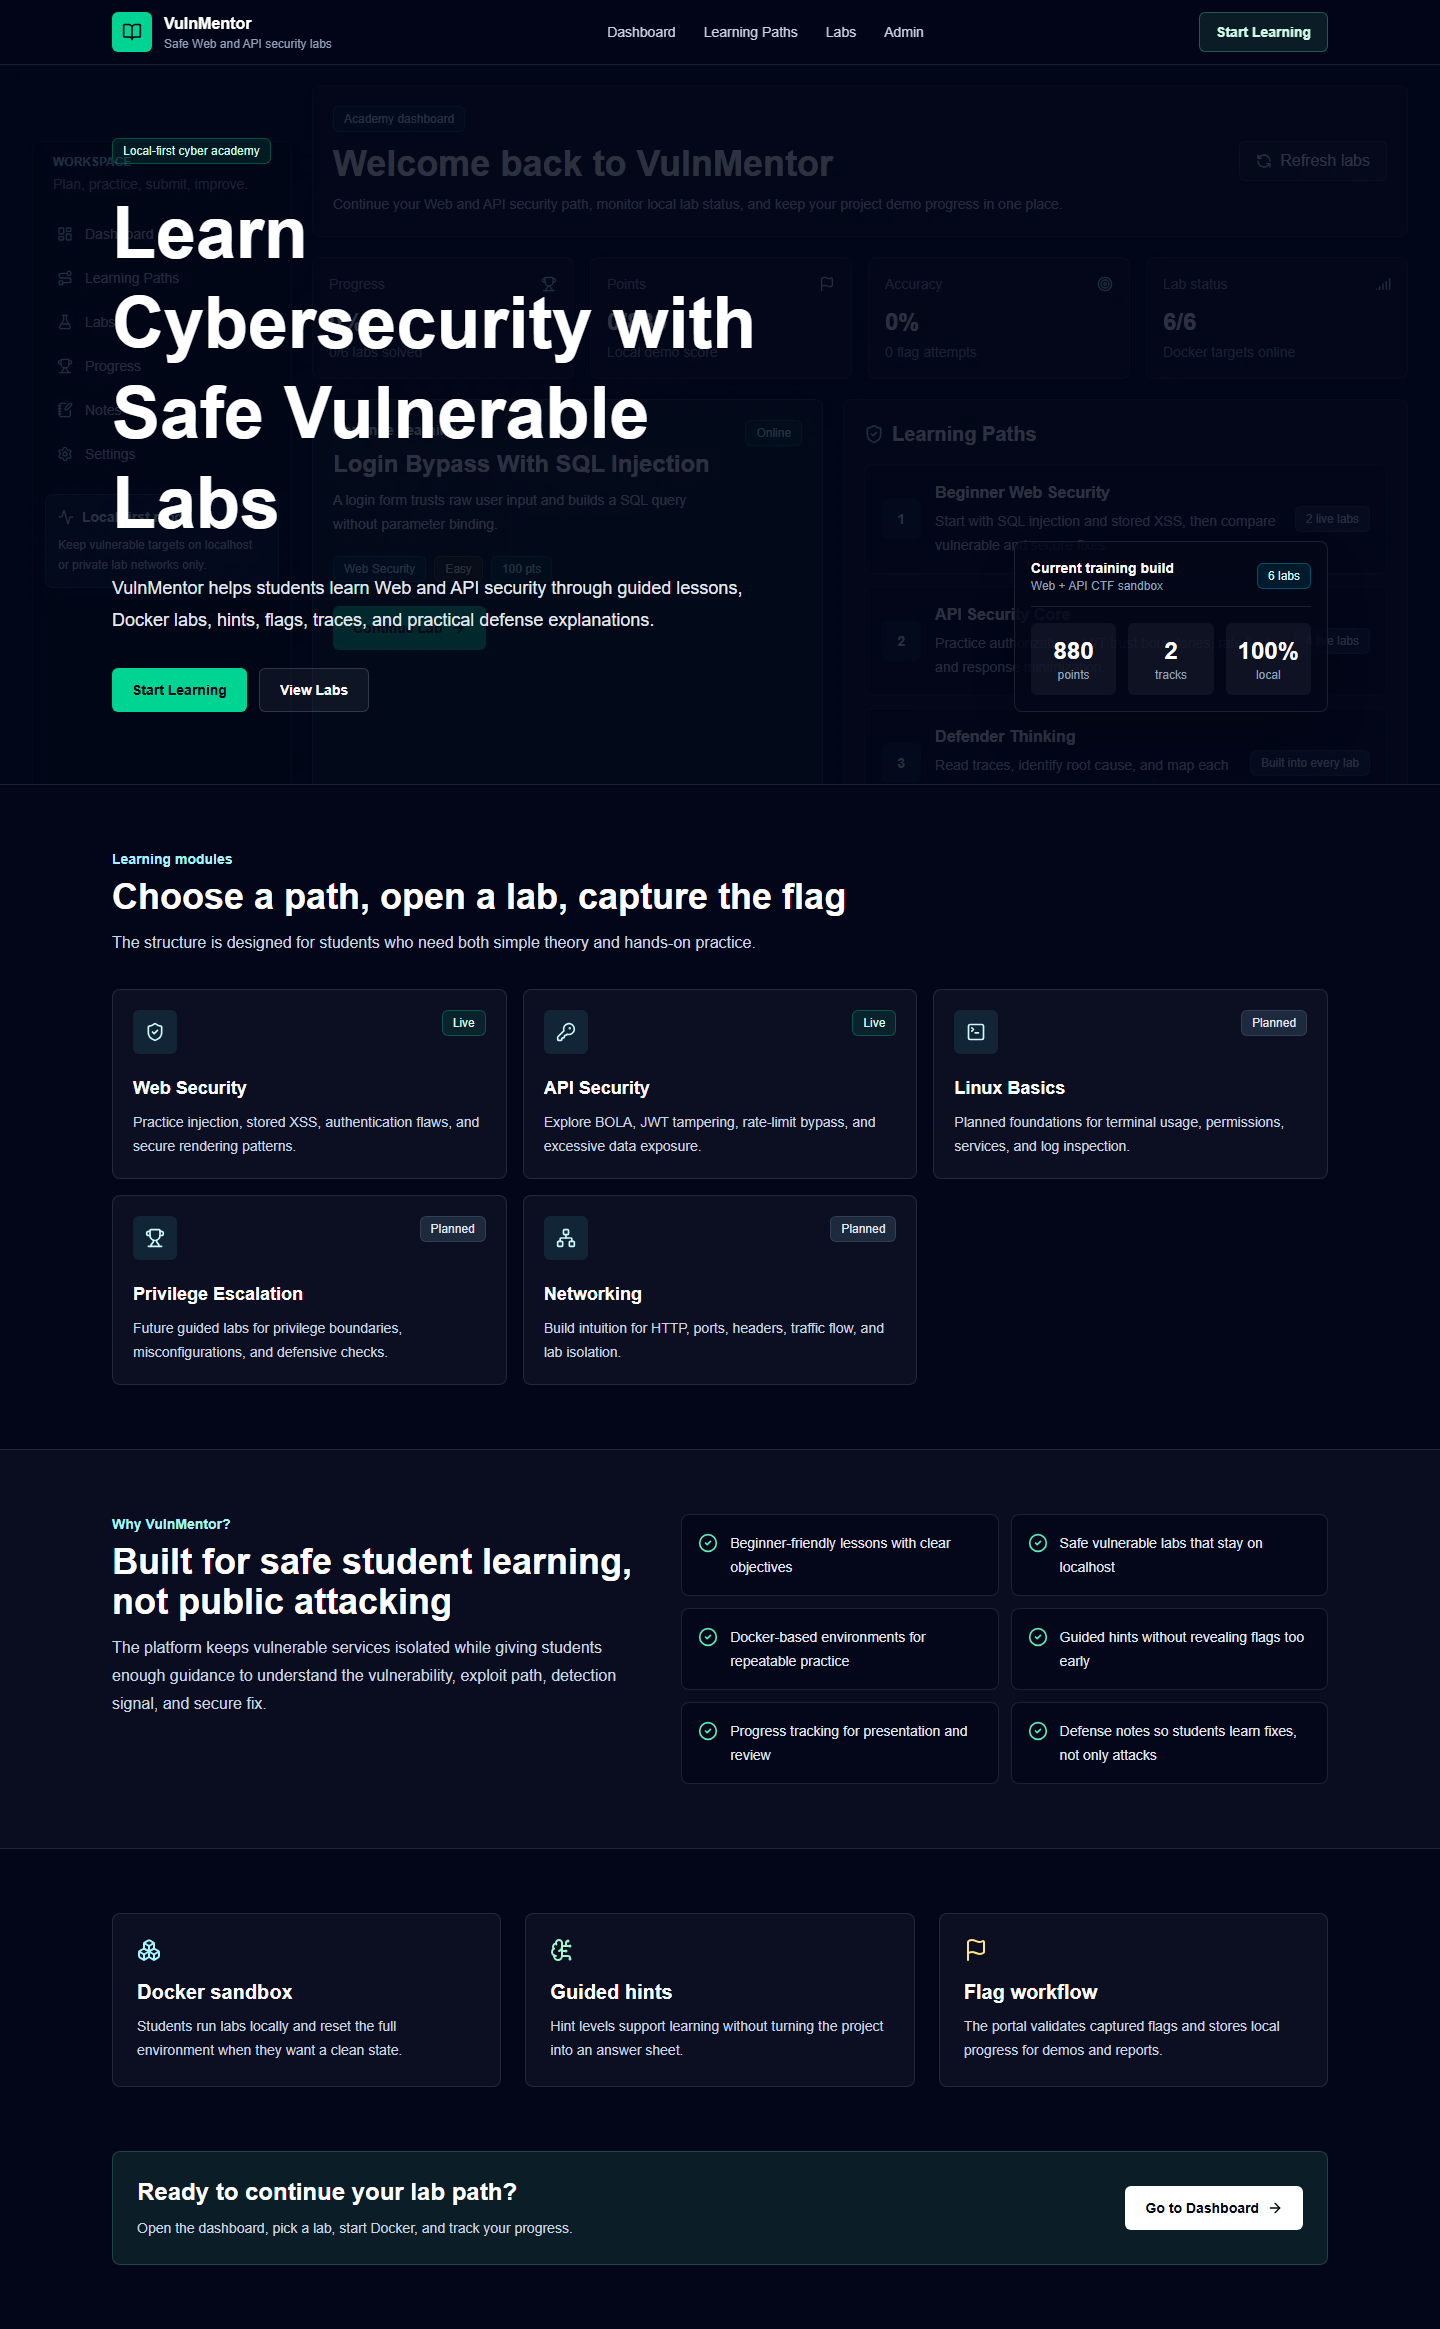
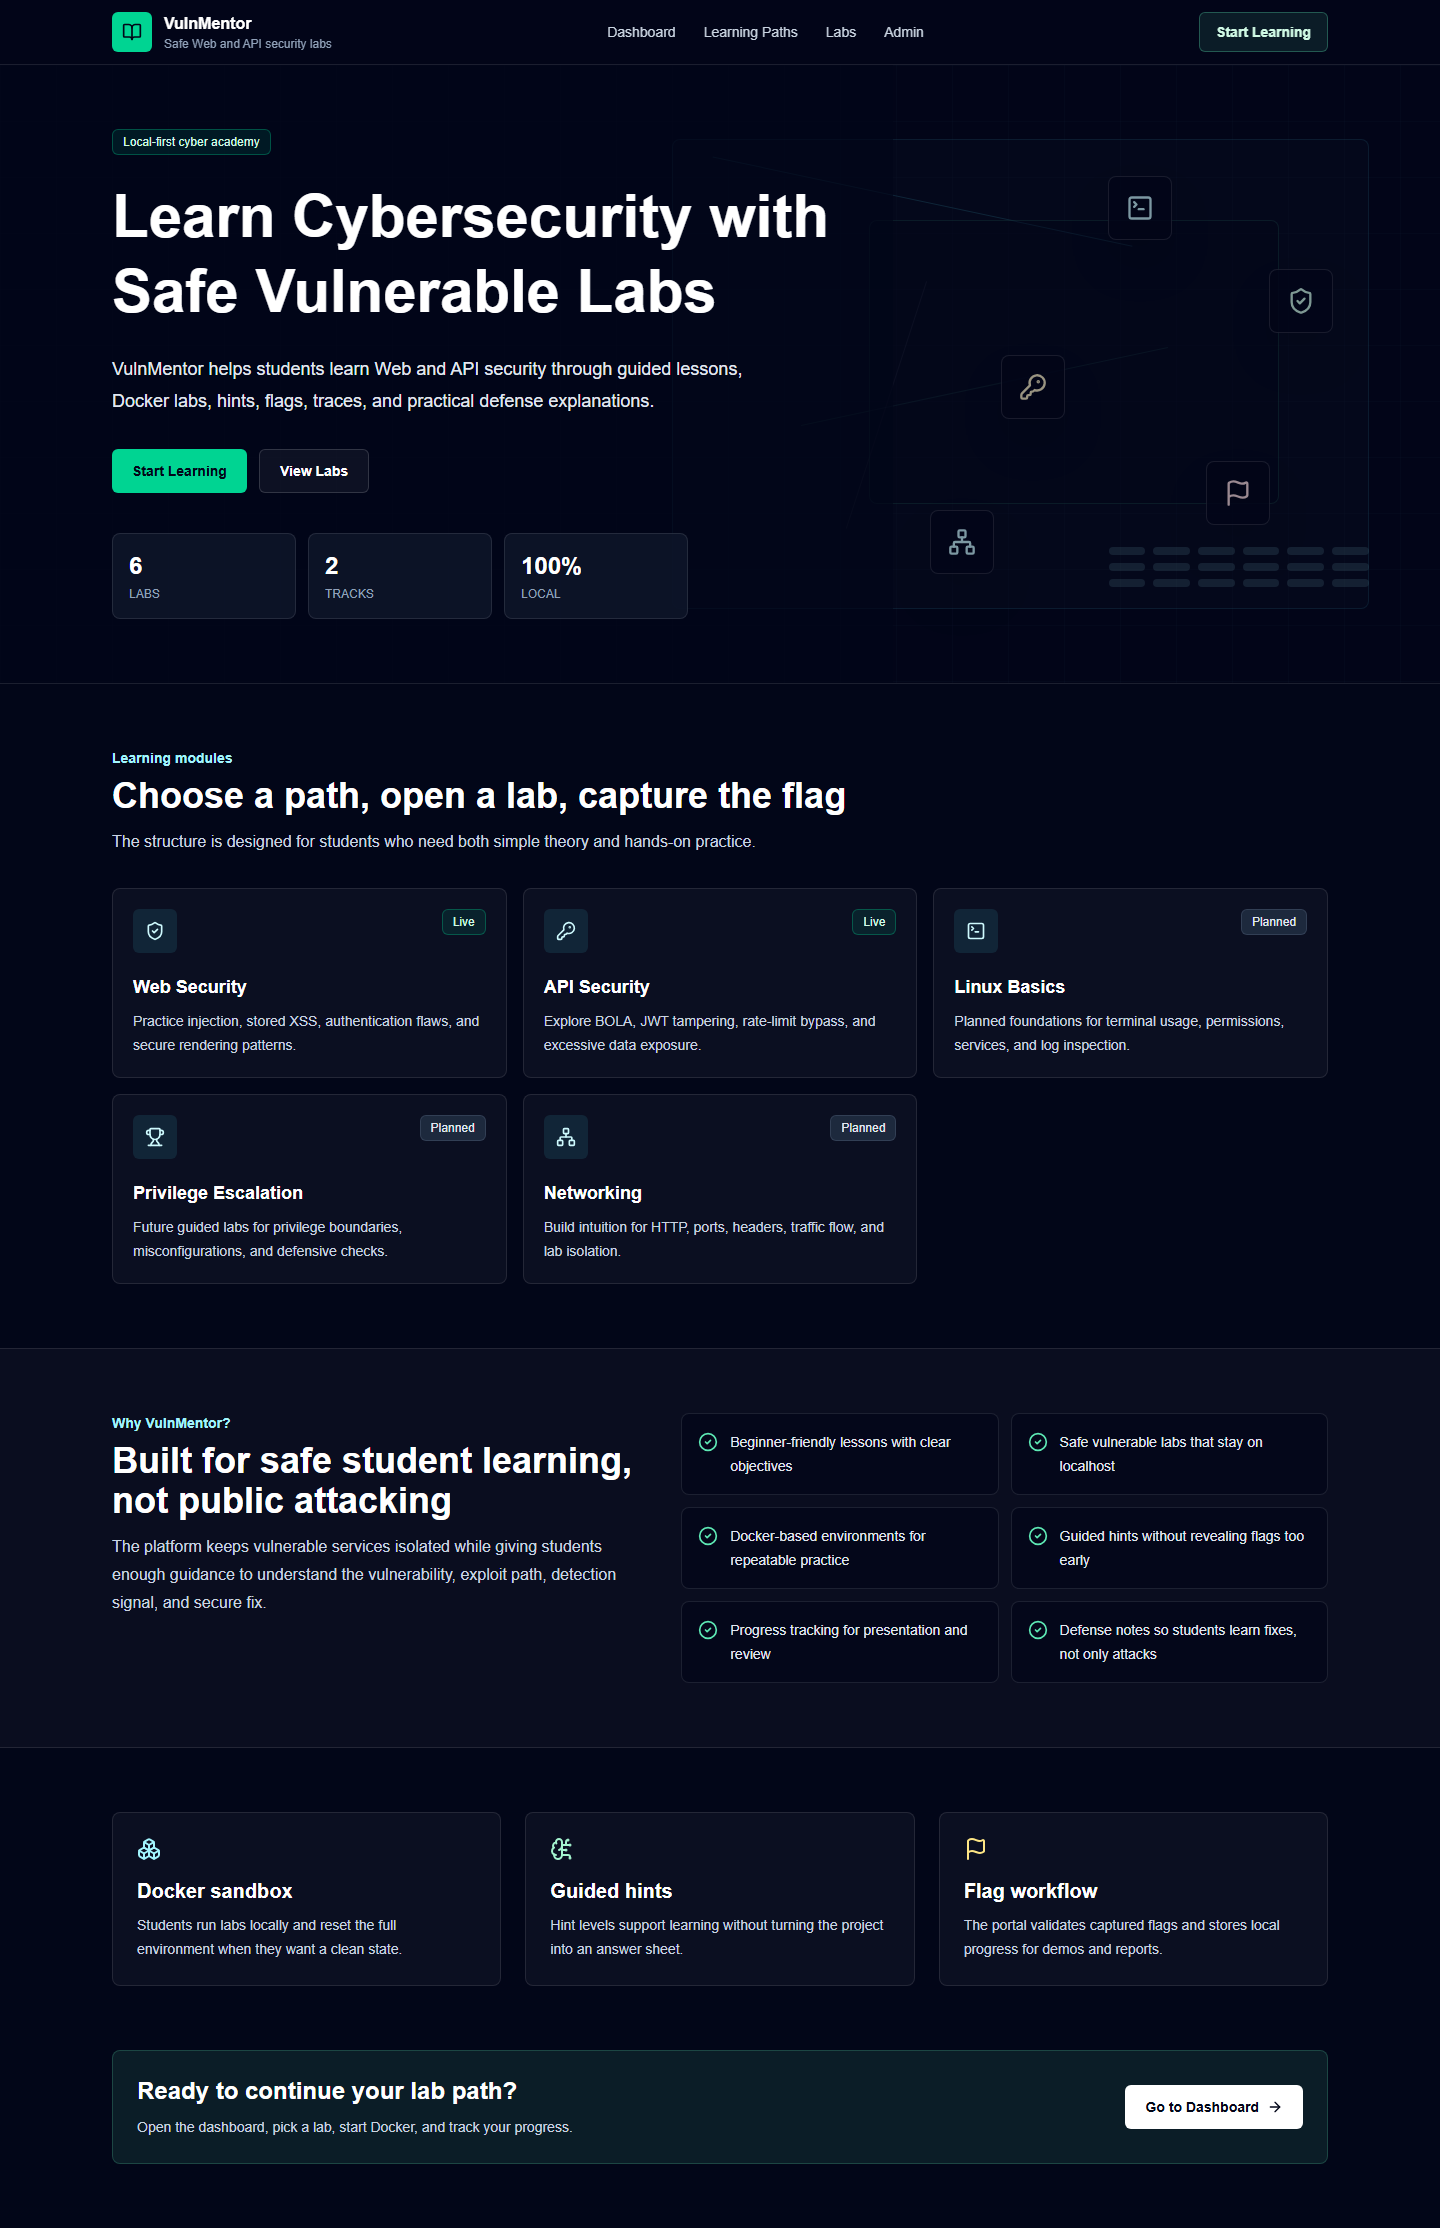
Polish homepage hero and public docs

diff --git a/src/components/academy/landing-page.tsx b/src/components/academy/landing-page.tsx
@@ -1,4 +1,3 @@
-import Image from "next/image";
 import Link from "next/link";
 import { ArrowRight, Boxes, BrainCircuit, CheckCircle2, Flag, KeyRound, Network, ShieldCheck, TerminalSquare, Trophy } from "lucide-react";
 import { AcademyTopNav, Badge, PrimaryLink, SecondaryLink, SectionHeading } from "./academy-ui";
@@ -50,20 +49,12 @@ export function LandingPage() {
     <main className="min-h-screen bg-slate-950 text-slate-100">
       <AcademyTopNav />
 
-      <section className="relative flex min-h-[720px] items-center overflow-hidden border-b border-white/10">
-        <Image
-          src="/vulnmentor-dashboard-preview.png"
-          alt=""
-          fill
-          priority
-          sizes="100vw"
-          className="object-cover object-right-top opacity-45"
-        />
-        <div className="absolute inset-0 bg-slate-950/62" />
-        <div className="relative mx-auto grid max-w-7xl gap-10 px-4 py-14 sm:px-6 lg:grid-cols-[1.1fr_0.9fr] lg:px-8">
-          <div className="max-w-4xl">
+      <section className="relative flex min-h-[560px] items-center overflow-hidden border-b border-white/10 bg-slate-950">
+        <HeroLabScene />
+        <div className="relative mx-auto flex w-full max-w-7xl px-4 py-16 sm:px-6 lg:px-8">
+          <div className="max-w-3xl">
             <Badge tone="green">Local-first cyber academy</Badge>
-            <h1 className="mt-6 max-w-[10ch] text-4xl font-semibold leading-tight text-white sm:max-w-4xl sm:text-5xl md:text-7xl">
+            <h1 className="mt-6 max-w-3xl text-4xl font-semibold leading-tight text-white sm:text-5xl lg:text-6xl">
               Learn Cybersecurity with Safe Vulnerable Labs
             </h1>
             <p className="mt-6 max-w-2xl text-base leading-7 text-slate-200 sm:text-lg sm:leading-8">
@@ -74,30 +65,19 @@ export function LandingPage() {
               <PrimaryLink href="/dashboard">Start Learning</PrimaryLink>
               <SecondaryLink href="/dashboard#labs">View Labs</SecondaryLink>
             </div>
-          </div>
 
-          <div className="grid content-end gap-3 lg:justify-self-end">
-            <div className="rounded-lg border border-white/10 bg-slate-950/80 p-4 shadow-2xl">
-              <div className="flex items-center justify-between gap-3 border-b border-white/10 pb-3">
-                <div>
-                  <p className="text-sm font-semibold text-white">Current training build</p>
-                  <p className="text-xs text-slate-400">Web + API CTF sandbox</p>
-                </div>
-                <Badge tone="cyan">6 labs</Badge>
+            <div className="mt-10 grid max-w-xl grid-cols-3 gap-3">
+              <div className="rounded-lg border border-white/10 bg-slate-900/80 p-4">
+                <p className="text-2xl font-semibold text-white">6</p>
+                <p className="mt-1 text-xs uppercase text-slate-400">labs</p>
               </div>
-              <div className="mt-4 grid grid-cols-3 gap-2 text-center sm:gap-3">
-                <div className="rounded-md bg-white/5 p-3">
-                  <p className="text-xl font-semibold text-white sm:text-2xl">880</p>
-                  <p className="text-xs text-slate-400">points</p>
-                </div>
-                <div className="rounded-md bg-white/5 p-3">
-                  <p className="text-xl font-semibold text-white sm:text-2xl">2</p>
-                  <p className="text-xs text-slate-400">tracks</p>
-                </div>
-                <div className="rounded-md bg-white/5 p-3">
-                  <p className="text-xl font-semibold text-white sm:text-2xl">100%</p>
-                  <p className="text-xs text-slate-400">local</p>
-                </div>
+              <div className="rounded-lg border border-white/10 bg-slate-900/80 p-4">
+                <p className="text-2xl font-semibold text-white">2</p>
+                <p className="mt-1 text-xs uppercase text-slate-400">tracks</p>
+              </div>
+              <div className="rounded-lg border border-white/10 bg-slate-900/80 p-4">
+                <p className="text-2xl font-semibold text-white">100%</p>
+                <p className="mt-1 text-xs uppercase text-slate-400">local</p>
               </div>
             </div>
           </div>
@@ -178,5 +158,43 @@ export function LandingPage() {
         </div>
       </section>
     </main>
+  );
+}
+
+function HeroLabScene() {
+  const nodes = [
+    { icon: TerminalSquare, className: "right-[30%] top-[18%]", tone: "text-cyan-100" },
+    { icon: ShieldCheck, className: "right-[12%] top-[33%]", tone: "text-emerald-100" },
+    { icon: KeyRound, className: "right-[42%] top-[47%]", tone: "text-amber-100" },
+    { icon: Flag, className: "right-[19%] top-[64%]", tone: "text-red-100" },
+    { icon: Network, className: "right-[50%] top-[72%]", tone: "text-cyan-100" },
+  ];
+
+  return (
+    <div aria-hidden="true" className="pointer-events-none absolute inset-0 overflow-hidden">
+      <div className="absolute inset-0 opacity-[0.18] [background-image:linear-gradient(rgba(125,211,252,0.18)_1px,transparent_1px),linear-gradient(90deg,rgba(125,211,252,0.18)_1px,transparent_1px)] [background-size:56px_56px]" />
+      <div className="absolute inset-y-0 right-0 hidden w-[62%] md:block">
+        <div className="absolute left-[18%] top-[22%] h-px w-[48%] rotate-12 bg-cyan-300/30" />
+        <div className="absolute left-[28%] top-[52%] h-px w-[42%] -rotate-12 bg-emerald-300/25" />
+        <div className="absolute left-[38%] top-[34%] h-[42%] w-px rotate-[18deg] bg-white/15" />
+        <div className="absolute right-[8%] top-[12%] h-[76%] w-[78%] rounded-lg border border-cyan-300/15 bg-slate-900/30" />
+        <div className="absolute right-[18%] top-[25%] h-[46%] w-[46%] rounded-lg border border-emerald-300/15 bg-slate-950/45" />
+        {nodes.map((node, index) => (
+          <div
+            key={index}
+            className={`absolute flex h-16 w-16 items-center justify-center rounded-lg border border-white/15 bg-slate-950/85 shadow-2xl ${node.className}`}
+          >
+            <node.icon className={`h-7 w-7 ${node.tone}`} />
+          </div>
+        ))}
+        <div className="absolute right-[8%] top-[78%] grid w-[260px] grid-cols-6 gap-2 opacity-70">
+          {Array.from({ length: 18 }).map((_, index) => (
+            <span key={index} className="h-2 rounded-sm bg-cyan-200/25" />
+          ))}
+        </div>
+      </div>
+      <div className="absolute inset-0 bg-slate-950/40" />
+      <div className="absolute inset-y-0 left-0 w-full bg-slate-950/70 md:w-[62%]" />
+    </div>
   );
 }

diff --git a/docs/TESTING_GUIDE.md b/docs/TESTING_GUIDE.md
@@ -134,9 +134,9 @@ npm run build
 
 Both commands should pass.
 
-## 5. What To Report After Testing
+## 5. What To Record After Testing
 
-Tell Codex:
+Write down:
 
 - What command failed, if any.
 - What page looked confusing.